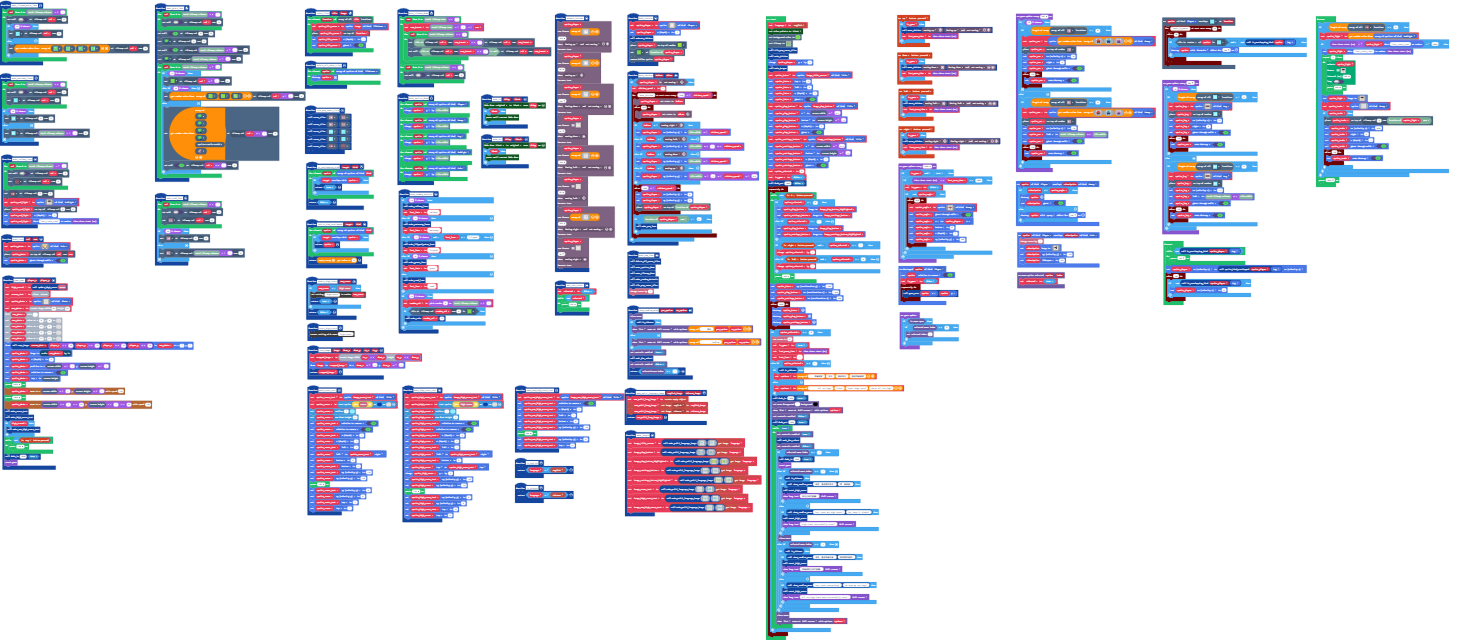
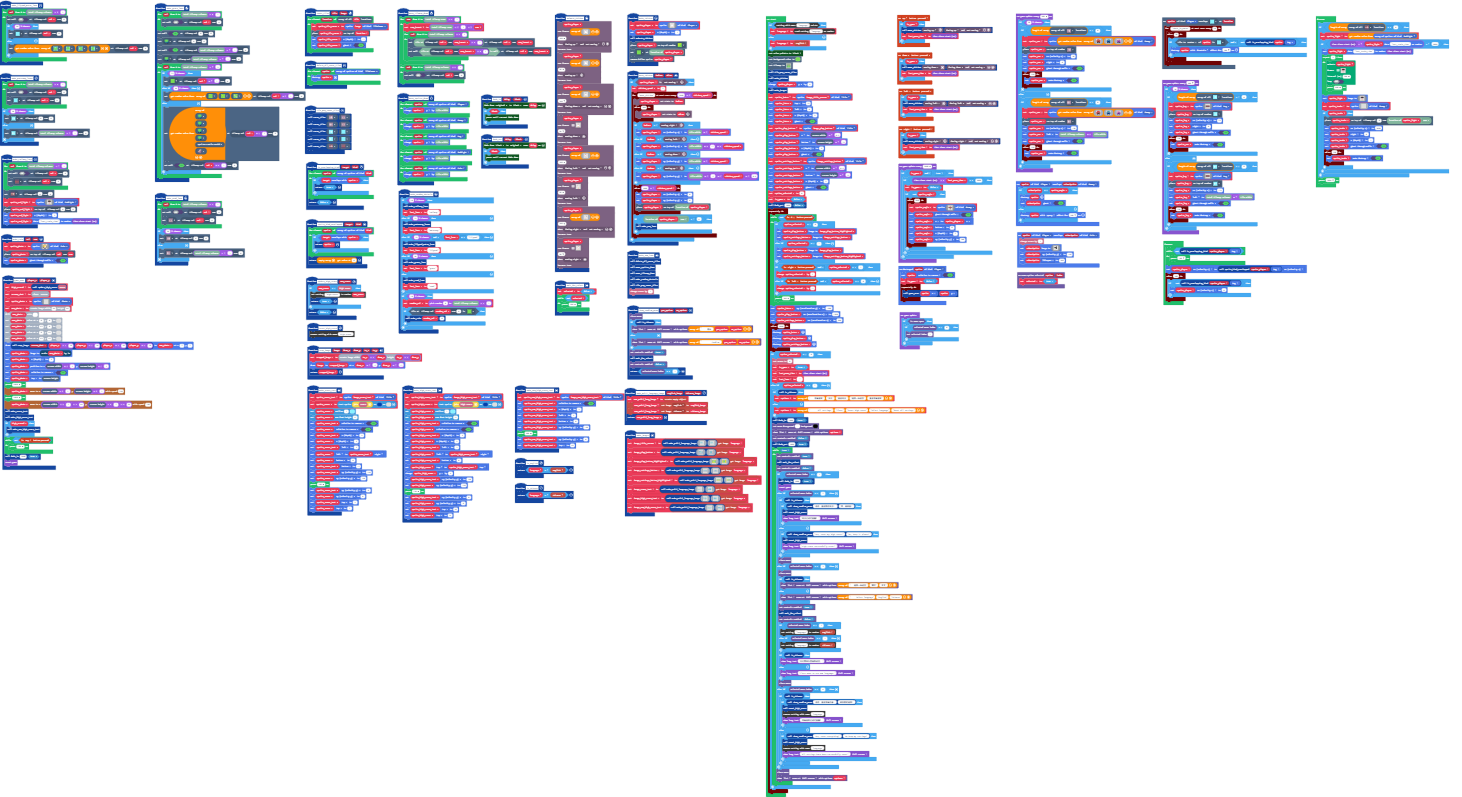
Can now change language via menu

diff --git a/main.ts b/main.ts
@@ -512,7 +512,11 @@ let image_play_button: Image = null
 let image_title_screen: Image = null
 let sprite_player: Sprite = null
 let language = 0
-language = ImageProp.english
+if (blockSettings.exists("language")) {
+    language = blockSettings.readNumber("language")
+} else {
+    language = ImageProp.english
+}
 color.setPalette(
 color.Black
 )
@@ -571,9 +575,9 @@ timer.background(function () {
         last_lane = ""
     } else if (option_selected == 1) {
         if (is_chinese()) {
-            options = ["    所有选项", "关闭", "重设高分", "重设所有选项"]
+            options = ["    所有选项", "关闭", "重设高分", "选择一种语言", "重设所有选项"]
         } else {
-            options = ["       All settings", "Close", "Reset high score", "Reset all settings"]
+            options = ["       All settings", "Close", "Reset high score", "Select language", "Reset all settings"]
         }
         fade_in(1000, true)
         blockMenu.setColors(1, 15)
@@ -589,9 +593,9 @@ timer.background(function () {
                 game.reset()
             } else if (blockMenu.selectedMenuIndex() == 2) {
                 if (is_chinese()) {
-                    if (show_confirm_menu("是的，重设我的高分!", "不，请保留!")) {
+                    if (show_confirm_menu("是的，重设我的高分！", "不，请保留!")) {
                         reset_high_score()
-                        game.showLongText("高分已成功重置!", DialogLayout.Full)
+                        game.showLongText("高分已成功重置！", DialogLayout.Full)
                     }
                 } else {
                     if (show_confirm_menu("Yes, reset my high score!", "No, keep it please!")) {
@@ -601,14 +605,37 @@ timer.background(function () {
                 }
                 blockMenu.closeMenu()
             } else if (blockMenu.selectedMenuIndex() == 3) {
+                blockMenu.closeMenu()
+                if (is_chinese()) {
+                    blockMenu.showMenu(["   选择一种语言", "英文", "中文"], MenuStyle.List, MenuLocation.FullScreen)
+                } else {
+                    blockMenu.showMenu(["     Select language", "English", "Chinese"], MenuStyle.List, MenuLocation.FullScreen)
+                }
+                blockMenu.setControlsEnabled(true)
+                wait_for_select()
+                blockMenu.setControlsEnabled(false)
+                if (blockMenu.selectedMenuIndex() == 1) {
+                    blockSettings.writeNumber("language", ImageProp.english)
+                } else if (blockMenu.selectedMenuIndex() == 2) {
+                    blockSettings.writeNumber("language", ImageProp.chinese)
+                }
+                if (is_chinese()) {
+                    game.showLongText("关闭菜单以查看新语言。", DialogLayout.Full)
+                } else {
+                    game.showLongText("Close menu to see new language.", DialogLayout.Full)
+                }
+                blockMenu.closeMenu()
+            } else if (blockMenu.selectedMenuIndex() == 4) {
                 if (is_chinese()) {
                     if (show_confirm_menu("是的，重设所有内容!", "保持我的选择!")) {
                         reset_high_score()
-                        game.showLongText("所有选项已成功重置!", DialogLayout.Full)
+                        blockSettings.remove("language")
+                        game.showLongText("所有选项已成功重置！", DialogLayout.Full)
                     }
                 } else {
                     if (show_confirm_menu("Yes, reset everything!", "No keep my settings!")) {
                         reset_high_score()
+                        blockSettings.remove("language")
                         game.showLongText("All settings have been successfully reset!", DialogLayout.Full)
                     }
                 }
